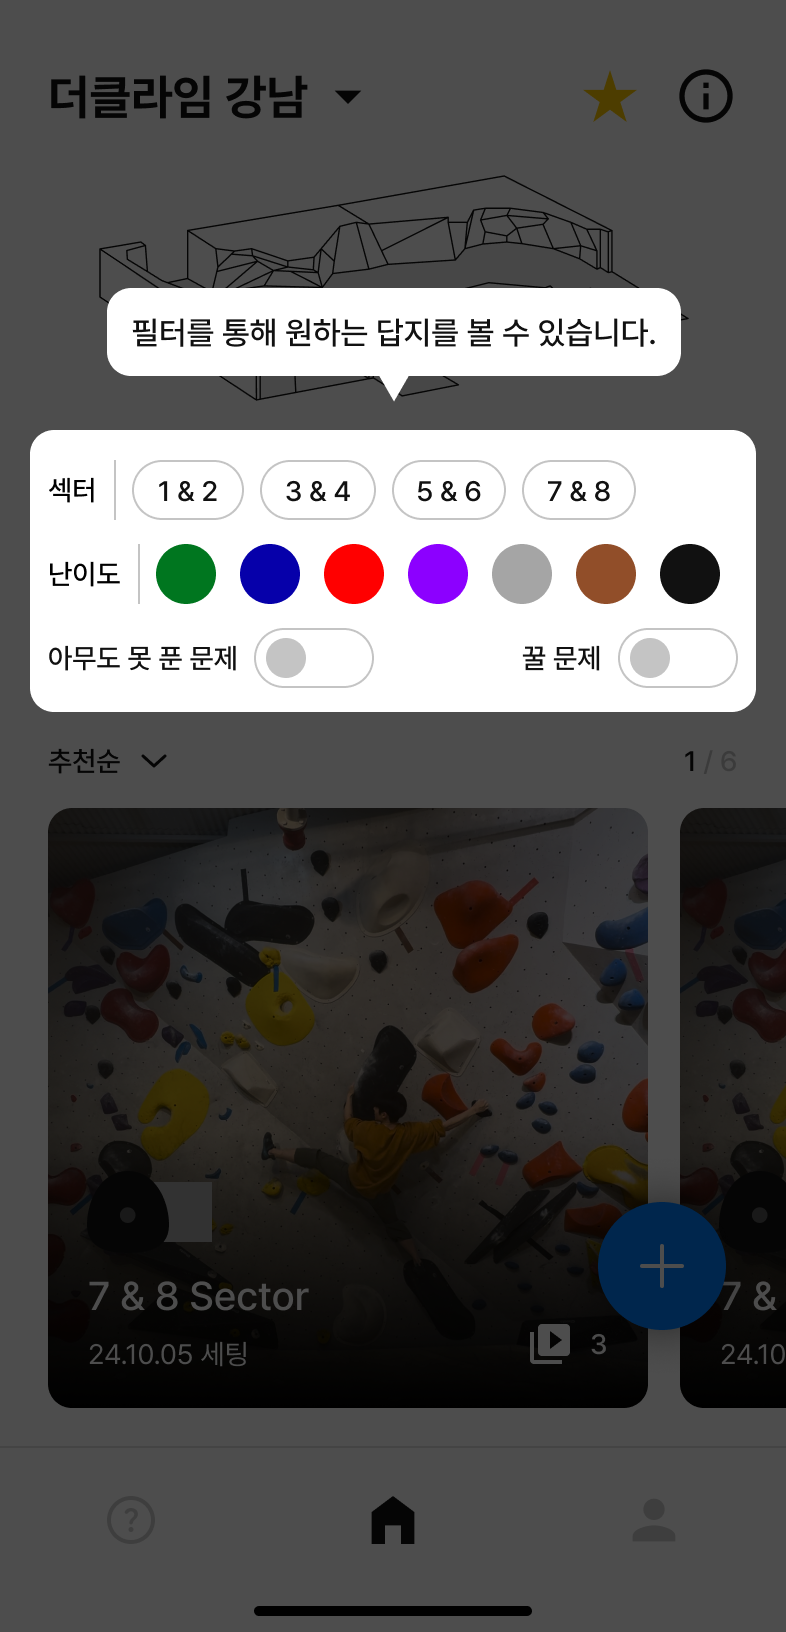
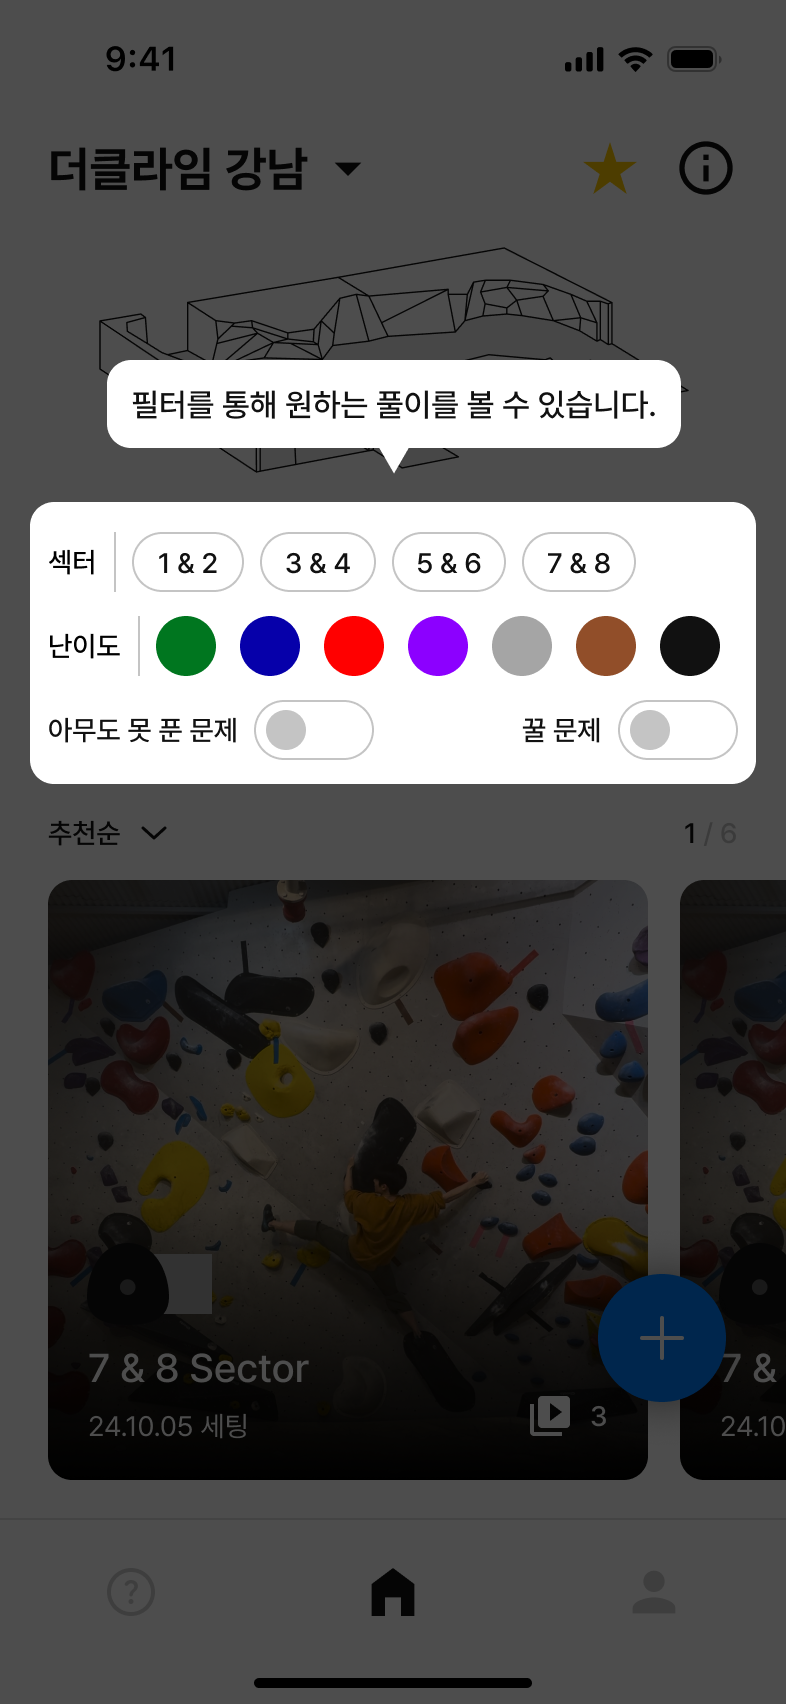
튜토리얼 번경,업로드버튼 버그수정

diff --git a/lib/controller/dio/first_answer_controller.dart b/lib/controller/dio/first_answer_controller.dart
@@ -166,8 +166,8 @@ class FirstAnswerController extends GetxController {
     tmp &= !(selectHoldColor.value == '');
     tmp &= !(selectGrade.value == '');
     tmp &= !(selectSector.value == '');
-    tmp &= !(videoController == null);
-
+    tmp &= !(thumbnailFile == null);
+    print(tmp);
     requiredSelect.value = tmp;
   }
 
